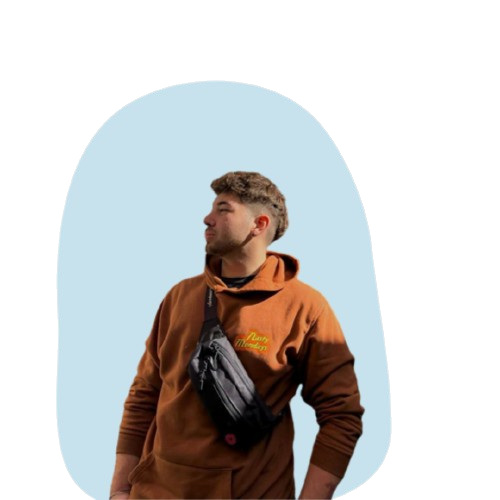
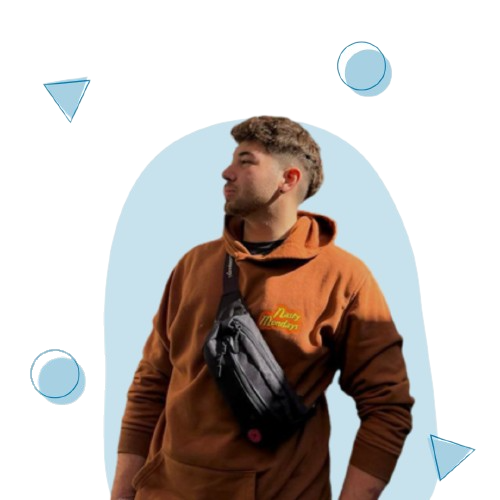
cambios significativos en el hero

diff --git a/src/components/hero/hero.jsx b/src/components/hero/hero.jsx
@@ -15,19 +15,21 @@ const Hero = () => {
 
     return (
 
-        <section id="hero">
-            <div className="divHero">
-                <HStack justify={'center'} gap={100} marginLeft={250}>
-                    <VStack justify={"space-around"} className="stackHero">
-                        <Stack marginRight={125}>
-                        <Text fontSize='xl' color={'#0C7FB0'}>Hello, I'm</Text>
+        <Container id="hero" width={"full"} margin="0">
+            <Stack  marginLeft="90px" gap="60px">
+                <HStack width="1200px" justifyContent="space-around" >
+                    <VStack>
+                        <Stack>
+                            <Text fontSize='xl' color={'#0C7FB0'}>Hello, I'm</Text>
 
-                        </Stack>
+                        
                         <Heading size={"lg"}>Manuel Nyville</Heading>
                         <Heading fontSize='xl' color={'#0C7FB0'} >Front End Developer</Heading>
                         <Text color={'#6D7173'}>I am a Front end developer...</Text>
+                        </Stack>
+
                         <ButtonGroup>
-                            <a href="#contact">
+                        <a href="#contact">
                                 <Button as={motion.button} whileHover={{ color: '#0C7FB0' }} color={'#F9F9F9'} bg={'#0C7FB0'} variant='solid'>
                                     Hire me
                                 </Button>
@@ -36,59 +38,43 @@ const Hero = () => {
                                 <Button as={motion.button} whileHover={{ color: '#0C7FB0' }} color={'#0C7FB0'} colorScheme='teal' variant='outline' >
                                     See Portfolio
                                 </Button>
-
                             </a>
                         </ButtonGroup>
                     </VStack>
-                    <HStack>
-                        <VStack>
-                        <Stack>
-
-                            <Image src={Triangulo} w={1000} className="garabatos" marginLeft={150}/>
+                    <HStack >
+                        <Stack >
+                        <img src={Foto} className="fotoMia" />
                         </Stack>
-                            <Image src={Flecha} w={1000} className="garabatos" />
-
-                        </VStack>
-                       
-
-                            <img src={Foto} className="fotoMia" />
-                       
-                        
-                        <VStack>
-
-                            <Image src={Triangulo}  w={800} className="garabatos" marginRight={250} />
-                            <Image src={Circulo}  w={800} className="garabatos" marginRight={250}/>
-                        </VStack>
                     </HStack>
                 </HStack>
-                <Stack as={motion.div} whileHover={{ color: '#0C7FB0' }} justify={"space-around"} flexDirection={"row"} width={1100} margin={"0 auto"}>
-                    <Card as={motion.div} whileHover={{ scale: 1.2, color: '#0C7FB0' }} bg={'#F9F9F9'}>
-                        <CardHeader>
-                            <Heading size='md'> <RiMedalLine /> </Heading>
+                <Stack  justify={"space-evenly"} direction={"row"} width="1200px">
+                    <Card as={motion.div} whileHover={{ scale: 1.2, color: '#A7D1E3' }} bg={'#F9F9F9'} className="cardHero" >
+                        <CardHeader >
+                            <Heading size='md' className="imgHero"> <RiMedalLine /> </Heading>
                         </CardHeader>
                         <CardBody>
                             <Text>0 Awards</Text>
                         </CardBody>
                     </Card>
-                    <Card as={motion.div} whileHover={{ scale: 1.2, color: '#0C7FB0' }} bg={'#F9F9F9'}>
+                    <Card as={motion.div} whileHover={{ scale: 1.2, color: '#A7D1E3' }} bg={'#F9F9F9'} className="cardHero">
                         <CardHeader>
-                            <Heading size='md'>  <FaUsers /></Heading>
+                            <Heading size='md' className="imgHero">  <FaUsers /></Heading>
                         </CardHeader>
                         <CardBody>
                             <Text>10+ Clients</Text>
                         </CardBody>
                     </Card>
-                    <Card as={motion.div} whileHover={{ scale: 1.2, color: '#0C7FB0' }} bg={'#F9F9F9'}>
+                    <Card as={motion.div} whileHover={{ scale: 1.2, color: '#A7D1E3' }} bg={'#F9F9F9'}className="cardHero">
                         <CardHeader>
-                            <Heading size='md'> <FaAward /> </Heading>
+                            <Heading size='md' className="imgHero"> <FaAward /> </Heading>
                         </CardHeader>
                         <CardBody>
                             <Text>02 Months experience</Text>
                         </CardBody>
                     </Card>
-                    <Card as={motion.div} whileHover={{ scale: 1.3, color: '#0C7FB0' }} bg={'#F9F9F9'}>
+                    <Card as={motion.div} whileHover={{ scale: 1.3, color: '#A7D1E3' }} bg={'#F9F9F9'}className="cardHero">
                         <CardHeader>
-                            <Heading size='md'> <FaTrophy /> </Heading>
+                            <Heading size='md' className="imgHero"> <FaTrophy /> </Heading>
                         </CardHeader>
                         <CardBody>
                             <Text>+20 Proyects</Text>
@@ -96,9 +82,9 @@ const Hero = () => {
                     </Card>
 
                 </Stack>
-
-            </div>
-        </section>
+            </Stack>
+        </Container>
+    
     )
 }
 

diff --git a/src/components/hero/hero.css b/src/components/hero/hero.css
@@ -1,22 +1,19 @@
 *{
-    margin: 0;
+    margin: 0 ;
     padding: 0;
 }
 .fotoMia{
-    width: 400px; 
-    height: 400px;
-    z-index: 10;
+    width: 450px;
+    height: 450px;
 }
-.garabatos{
-    z-index: 9;
-    
+.cardHero{
+    width: 150px;
+    position: relative;
 }
-.stackHero{
-    z-index: 10;
-}
-.divHero{
-    width: 1450px;
-}
-body{
-    background-color: #F9F9F9
+.imgHero{
+    position: absolute;
+    left: 60px;
+    bottom: 115px;
+    background-color: #0C7FB0;
+    border-radius: 50%;
 }
